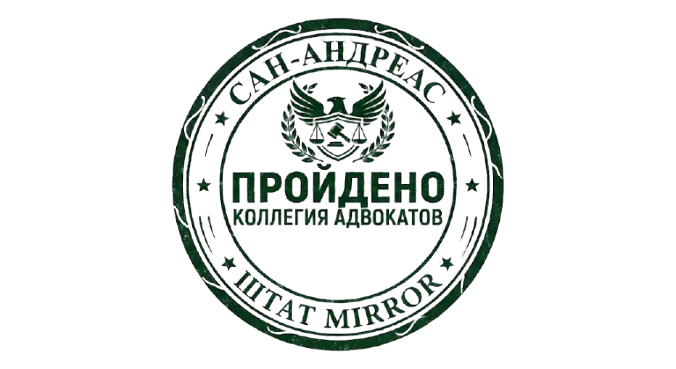
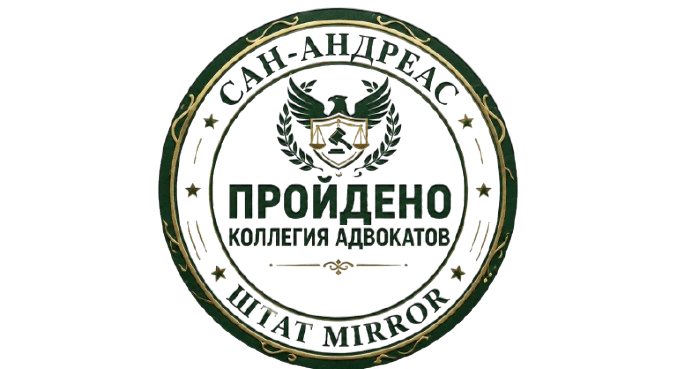
Improve passed exam stamp visibility

Changed region(s): [[0.2175, 0.0, 0.7766, 1.0]]

diff --git a/web/css/base.css b/web/css/base.css
@@ -271,7 +271,7 @@ html, body {
 .law-exam-card .btn:disabled { cursor: default; opacity: .58; }
 .law-exam-stamp { display: grid; min-height: 250px; place-items: center; touch-action: none; user-select: none; cursor: grab; }
 .law-exam-stamp:active { cursor: grabbing; }
-.law-exam-stamp img { display: block; width: 100%; height: 250px; object-fit: cover; object-position: center; filter: drop-shadow(0 5px 8px rgba(0, 0, 0, .34)); transform: rotate(var(--stamp-angle)); }
+.law-exam-stamp img { display: block; width: min(440px, 100%); height: auto; max-height: 250px; object-fit: contain; object-position: center; background: radial-gradient(circle closest-side, #f5f0df 0 96%, transparent 100%); filter: drop-shadow(0 5px 8px rgba(0, 0, 0, .34)); transform: rotate(var(--stamp-angle)); }
 .law-exam-stamp.is-dropping img { animation: lawStampDrop .62s cubic-bezier(.16,.84,.3,1.18) both; }
 .law-promotion-report { display: grid; gap: 10px; margin-top: 16px; padding: 14px; border: 1px solid var(--border-accent); border-radius: var(--radius-md); background: rgba(201, 162, 39, .06); }
 .law-promotion-report h4, .law-promotion-report p { margin: 0; }
